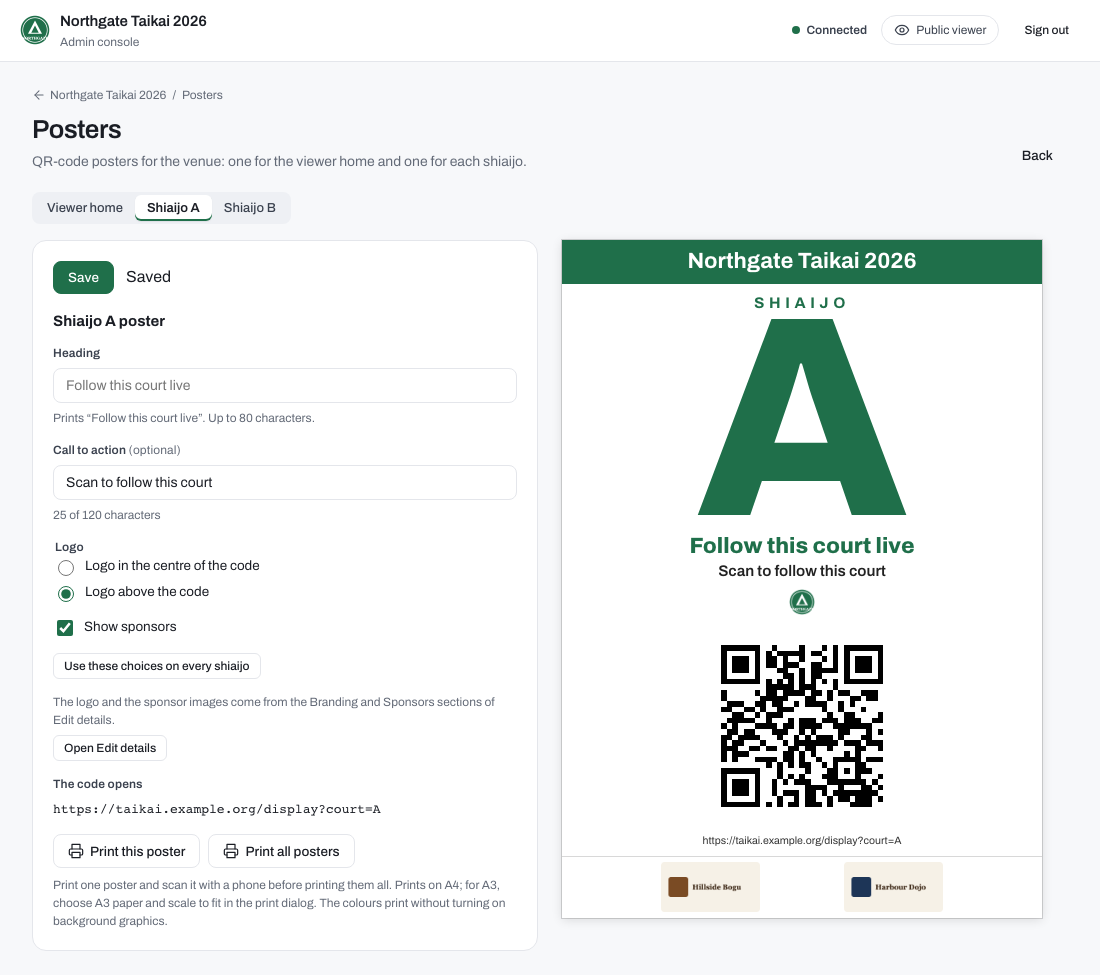
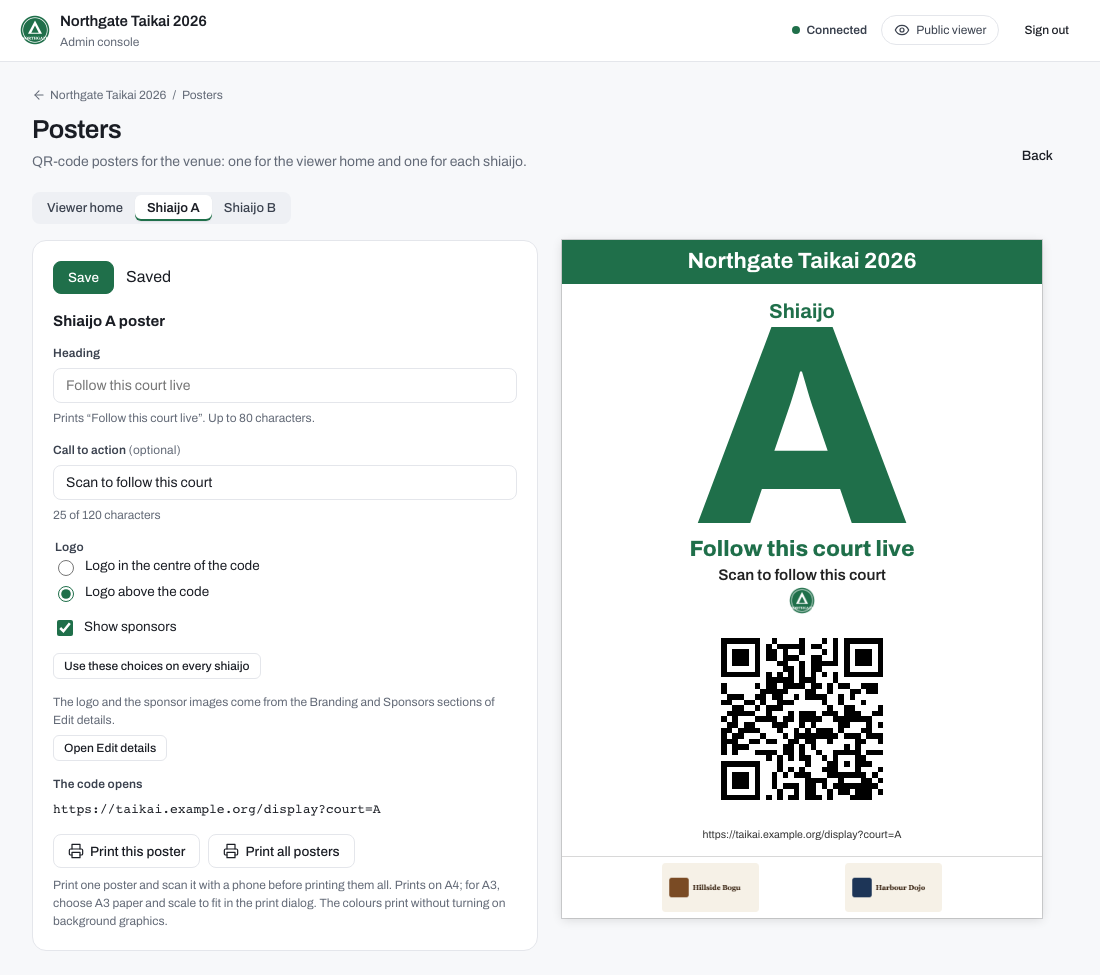
fix(posters): "Shiaijo" in normal case a size up, and the words grouped with the code
Decision round bc-qrps-audit-1 (H2 b, H3 b). The body keeps its pieces
together in the middle of its space instead of spreading them evenly; the
viewer poster, which has room, steps them 5% of the width apart.

diff --git a/web-mobile/css/posters.css b/web-mobile/css/posters.css
@@ -53,15 +53,16 @@
   overflow-wrap: anywhere;
 }
 
-/* The body takes what the band and the sponsor strip leave and spreads its
- * pieces evenly, so a poster without a call to action or sponsors has no hole. */
+/* The body takes what the band and the sponsor strip leave and keeps its
+ * pieces together as one block in the middle of it, so the words sit right by
+ * the code they explain and the free space is shared above and below. */
 .poster__body {
   flex: 1 1 auto;
   min-height: 0;
   display: flex;
   flex-direction: column;
   align-items: center;
-  justify-content: space-evenly;
+  justify-content: center;
   gap: 0.6cqw;
   padding: 0.6cqw 6cqw;
   text-align: center;
@@ -75,11 +76,15 @@
 }
 
 .poster__court-label {
-  font-size: 3.2cqw;
+  font-size: 4.2cqw;
   font-weight: 700;
-  letter-spacing: 0.3em;
-  text-transform: uppercase;
+  line-height: 1.2;
   color: var(--poster-ink);
+}
+
+/* The viewer poster has room for a wider step between its pieces. */
+.poster--viewer .poster__body {
+  gap: 5cqw;
 }
 
 /* The largest element of a court poster, taller than its code. */
